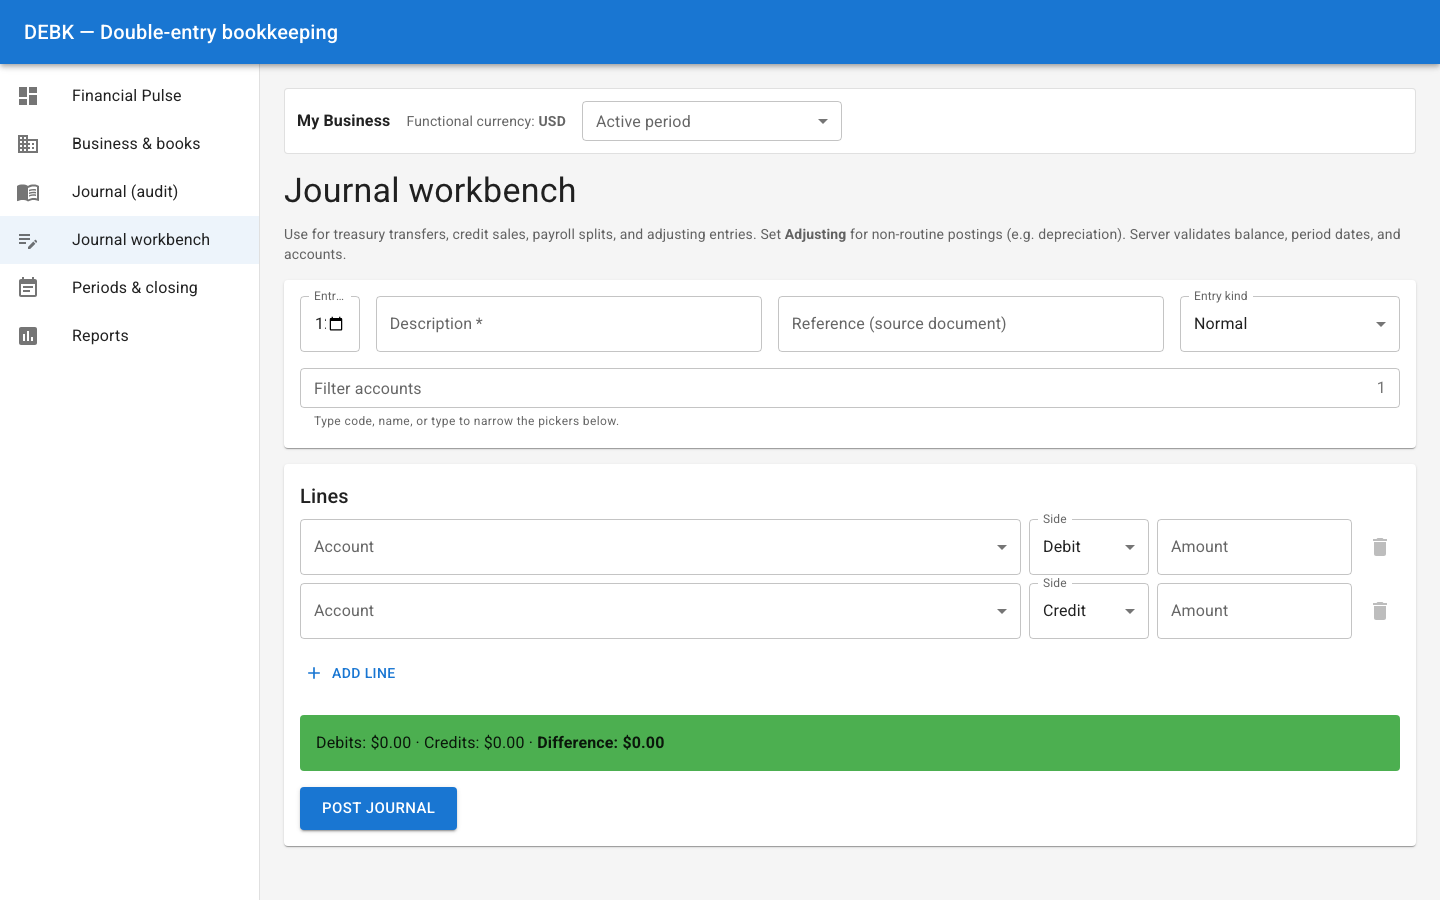
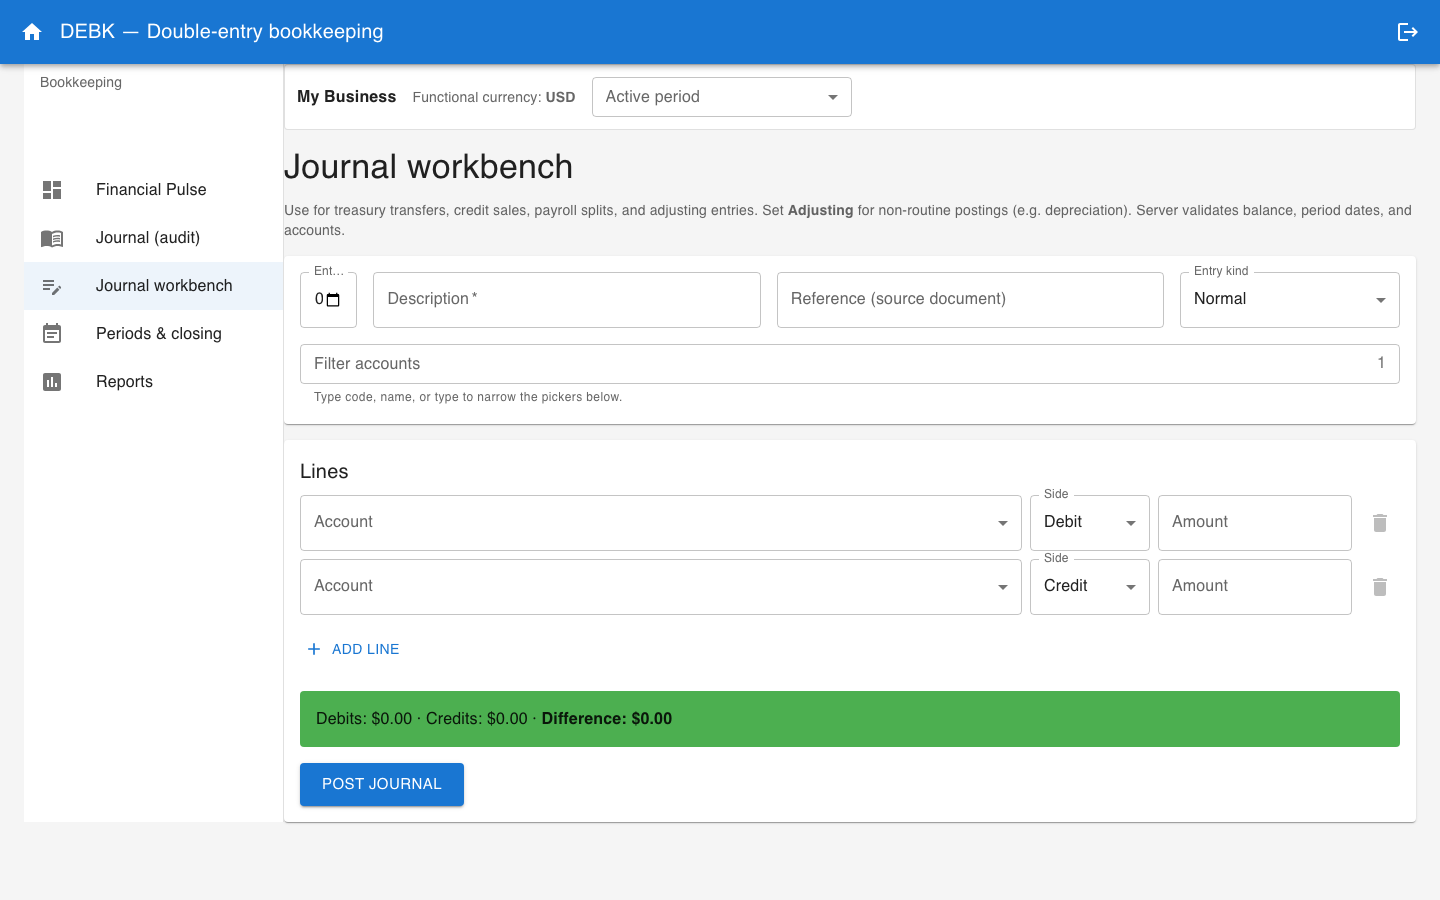
Update user guide
- New snapshots
- Add onboarding section

diff --git a/docs/user-guide.md b/docs/user-guide.md
@@ -16,19 +16,43 @@ Your books are only on your machine; they are not published to the web by DEBK i
 
 ---
 
-## Finding your way around: home portal and menus
+## Signing in and onboarding
 
-After you sign in, the **home** screen lists up to **three areas** (you only see the ones your role allows):
+When you open DEBK’s address in your browser, you always start at the **sign-in** screen unless the app has never had a user before (a **first installation** of the database).
 
-- **Identity & access** — manage who can sign in and what they may do.
-- **Configuration** — chart of accounts (ledger account list and details).
-- **Bookkeeping** — journals, periods, reports, and **Financial Pulse** (dashboard).
+### Sign-in screen (first administrator or returning user)
 
-Choose **Bookkeeping** to open the bookkeeping area. On a **wide** window, a **menu on the left** lists Financial Pulse, Journal (audit), Journal workbench, Periods & closing, and Reports. The **strip under the top bar** shows your business name, currency, and **Active period** (explained in the next section). The **main area** shows the screen you picked.
+The first page is always the same route; the **title** tells you which case applies.
+
+- **First administrator (brand-new installation):** if **no operators** exist yet, the heading reads **Create first administrator**. Enter a **login** (a short sign-in name), an optional **display name**, and a **password**, then choose **Create account**. That account is a **full administrator**: it can manage other users, configuration, and bookkeeping. DEBK then opens **Identity & access** so you can add colleagues (for example a configuration administrator and a bookkeeper) before everyone starts using journals. You can return there any time from the **home** screen.
+
+- **Normal sign-in:** once at least one user exists, the heading reads **Sign in**. Enter the **login** and **password** your administrator gave you, then **Sign in**.
+
+![Sign-in screen: Create first administrator when the database has no users yet, or Sign in when it does.](images/user-guide/onboarding-login.png)
+
+### Home portal (after you are signed in)
+
+The **Welcome** screen lists **tiles** for each area your roles allow: **Identity & access**, **Configuration**, and **Bookkeeping**. Your name appears under the welcome line. Use the **house** icon in the top bar to return here from anywhere else.
+
+![Welcome: home tiles for Identity & access, Configuration, and Bookkeeping.](images/user-guide/onboarding-home-portal.png)
+
+### Identity & access (team onboarding)
+
+Users with the right permission see **Identity & access** from the home portal. There you maintain **operators** (who may sign in), their **roles**, and **passwords**. Full administrators can assign every role; a **configuration administrator** can typically add **bookkeepers** only. Use **Add user** to create an account, **Set password** when someone needs a new password, and **Disable** / **Enable** to stop or restore sign-in without deleting the person’s history.
+
+![Identity & access: operator list, Add user, and per-user actions.](images/user-guide/onboarding-team-operators.png)
+
+If you never see this tile, your role is limited to configuration or bookkeeping only—ask a full administrator to adjust access.
+
+---
+
+## Finding your way around: bookkeeping layout
+
+From the home portal, open **Bookkeeping** to enter the bookkeeping area. On a **wide** window, a **menu on the left** lists Financial Pulse, Journal (audit), Journal workbench, Periods & closing, and Reports. The **strip under the top bar** (the **context** strip) shows your business name, currency, and **Active period** (explained in the next section). The **main area** shows the screen you picked.
 
 ![Financial Pulse: sidebar menu on the left, context strip below the app title, and dashboard content in the main area.](images/user-guide/01-financial-pulse.png)
 
-Screenshots in this guide may still show an older single menu; if your build shows the **home tiles** first, use them to reach the same tasks. Use **Home** in the top bar to return to the tile screen. The examples later in this guide tell you which area or menu item to open.
+The examples later in this guide name the **home** tile or the **bookkeeping** menu item to open. Use **Home** in the top bar to return to the welcome tiles.
 
 ---
 
@@ -56,7 +80,7 @@ The same strip appears on the screenshot above. The active period you pick stays
 | **Periods & closing** | Define months or quarters, preview figures at closing time, and mark a period as closed when you are ready. |
 | **Reports** | Trial balance, profit and loss, and balance sheet for dates you choose. |
 
-**Configuration** (from the home tiles): chart of accounts only. **Legal name** and **functional currency** are on a separate screen linked from there (when your role allows).
+**Configuration** (from the home tiles): the **chart of accounts** screen. When your role allows, use the **Legal entity & functional currency** button there to open the business profile (**legal name** and **functional currency**).
 
 Some screens offer a link to open **one account’s ledger** — a running story of that account only.
 
@@ -69,7 +93,7 @@ Imagine you run a small consultancy called **Riverstone Advisory** and you work 
 ### 1. Business name and currency
 
 1. On the **home** screen after sign-in, open **Configuration** (if you do not see it, your role may not include COA or business editing—use an administrator account).
-2. Use **Legal entity & functional currency** (or equivalent link) to open the business profile.
+2. Choose **Legal entity & functional currency** to open the business profile.
 3. In **Legal name**, type: `Riverstone Advisory Ltd`.
 4. Set **Functional currency** to **GBP** (or your real currency).
 5. Click **Save**.
@@ -231,12 +255,13 @@ Useful for answering “why is the bank balance this number?” without reading 
 
 ## Quick recap
 
-1. Set **business name** and **currency**.  
-2. Build your **chart of accounts** and create at least one **period**.  
-3. Pick the **active period** in the context strip.  
-4. Post balanced journals in the **workbench**.  
-5. Check **Financial Pulse** for a quick view and **Reports** for formal statements.  
-6. Use **Periods & closing** when a period is finished.
+1. **Sign in** (or create the **first administrator** once). Use **Identity & access** from the home portal if you need to add operators.  
+2. Set **business name** and **currency**.  
+3. Build your **chart of accounts** and create at least one **period**.  
+4. Pick the **active period** in the context strip.  
+5. Post balanced journals in the **workbench**.  
+6. Check **Financial Pulse** for a quick view and **Reports** for formal statements.  
+7. Use **Periods & closing** when a period is finished.
 
 DEBK is built around **one business** in one place on one computer — enough for many small organisations and sole traders who want clear double-entry books without sharing data online.
 
@@ -247,10 +272,35 @@ DEBK is built around **one business** in one place on one computer — enough fo
 If you change the layout or colours of the app, refresh the PNG files so this guide stays accurate.
 
 1. From the `web` folder, run `npm run build` so the embedded UI matches the latest design.
-2. Start DEBK and note the web address it prints (for example `http://localhost:12345`).
+2. Start DEBK and note the web address it prints (for example `http://127.0.0.1:54321`).
 3. Install the automation browser once: `npx playwright install chromium` (from `web/`).
-4. From `web/`, run:  
-   `DEBK_BASE_URL=http://localhost:12345 npm run capture-user-guide-screens`  
-   (replace the address with yours).
+4. From `web/`, run the capture script with your base URL and credentials.
 
-New images are written to `docs/images/user-guide/`. Commit them with your UI changes.
+**Always set** `DEBK_BASE_URL` to the address DEBK printed when it started.
+
+**First screen (`onboarding-login.png`):** the script saves this before it signs in. You will get **Create first administrator** if the database has no operators yet, or **Sign in** if users already exist.
+
+**Authenticated screens (home portal, identity, bookkeeping, configuration, reports):**
+
+- If you see **Sign in**, set `DEBK_USER_GUIDE_LOGIN` and `DEBK_USER_GUIDE_PASSWORD` to an operator that can reach every area you want in the guide (typically a **full administrator**).
+- If you see **Create first administrator**, set `DEBK_USER_GUIDE_BOOTSTRAP_LOGIN` and `DEBK_USER_GUIDE_BOOTSTRAP_PASSWORD` (and optionally `DEBK_USER_GUIDE_BOOTSTRAP_DISPLAY_NAME`) so the script can submit that form once; it will then capture the rest using the new account.
+
+Example (existing user):
+
+```bash
+DEBK_BASE_URL=http://127.0.0.1:54321 \
+DEBK_USER_GUIDE_LOGIN=alice \
+DEBK_USER_GUIDE_PASSWORD='your-secret' \
+npm run capture-user-guide-screens
+```
+
+Example (bootstrap on an empty database):
+
+```bash
+DEBK_BASE_URL=http://127.0.0.1:54321 \
+DEBK_USER_GUIDE_BOOTSTRAP_LOGIN=alice \
+DEBK_USER_GUIDE_BOOTSTRAP_PASSWORD='your-secret' \
+npm run capture-user-guide-screens
+```
+
+New and updated images are written to `docs/images/user-guide/`. Commit them with your UI changes.
